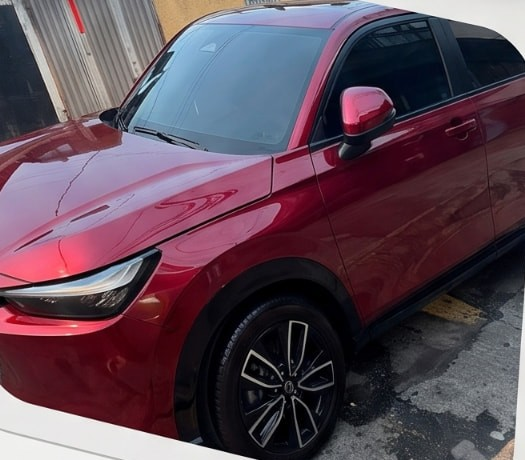
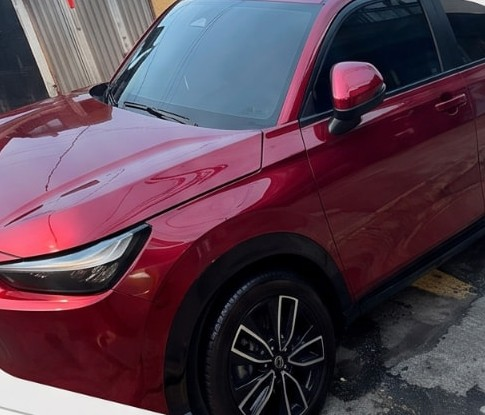
Changes

diff --git a/src/routes/index.tsx b/src/routes/index.tsx
@@ -80,11 +80,11 @@ function Index() {
           aria-hidden
           width={1024}
           height={1024}
-          className="pointer-events-none absolute -right-56 top-24 z-10 hidden w-80 -rotate-[10deg] drop-shadow-2xl md:block"
+          className="pointer-events-none absolute -right-72 top-20 z-10 hidden w-80 -rotate-[10deg] drop-shadow-2xl md:block"
         />
         <section className="bio-card relative rounded-[2.5rem] px-6 pb-6 pt-10 sm:px-8">
           <div className="mx-auto h-40 w-40 overflow-hidden rounded-full bg-brand-ink shadow-xl ring-2 ring-gold sm:h-44 sm:w-44">
-            <img src={logo} alt="Logotipo Estética 28 — Restauração Automotiva" width={1024} height={1024} className="h-full w-full scale-[1.12] object-cover" />
+            <img src={logo} alt="Logotipo Estética 28 — Restauração Automotiva" width={1024} height={1024} className="h-full w-full scale-[1.04] object-cover" />
           </div>
           <h1 className="mt-6 text-center text-xl leading-snug text-brand-ink sm:text-2xl">
             Seu carro merece o mesmo<br />cuidado que você tem<br />com a sua imagem!
@@ -94,9 +94,9 @@ function Index() {
             <LinkButton href={CONFIG.instagram} icon={<InstaIcon />}>Nosso Instagram</LinkButton>
             <LinkButton href={CONFIG.maps} icon={<PinIcon />}>Nossa localização</LinkButton>
           </nav>
-          <img src={car} alt="Carro vermelho com acabamento impecável" loading="lazy" className="mt-6 aspect-[525/460] w-full rounded-[2rem] object-cover" />
+          <img src={car} alt="Carro vermelho com acabamento impecável" loading="lazy" className="mt-6 aspect-[485/415] w-full rounded-[2rem] object-cover" />
         </section>
-        <div className="mt-6 flex justify-center gap-5 md:absolute md:-right-32 md:bottom-16 md:mt-0 md:flex-col">
+        <div className="mt-6 flex justify-center gap-5 md:absolute md:-right-32 md:bottom-20 md:mt-0 md:flex-col">
           <Seal label="Polimento profissional"><PolishSeal /></Seal>
           <Seal label="Proteção e confiança"><ShieldSeal /></Seal>
           <Seal label="Acabamento impecável"><CarSeal /></Seal>
